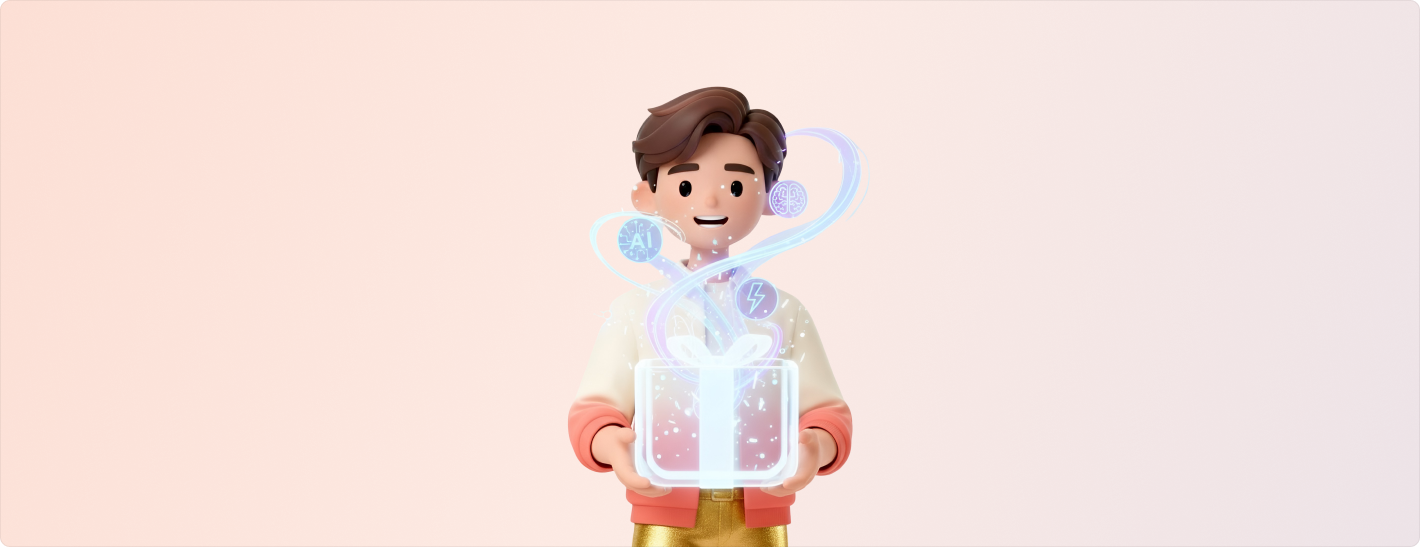
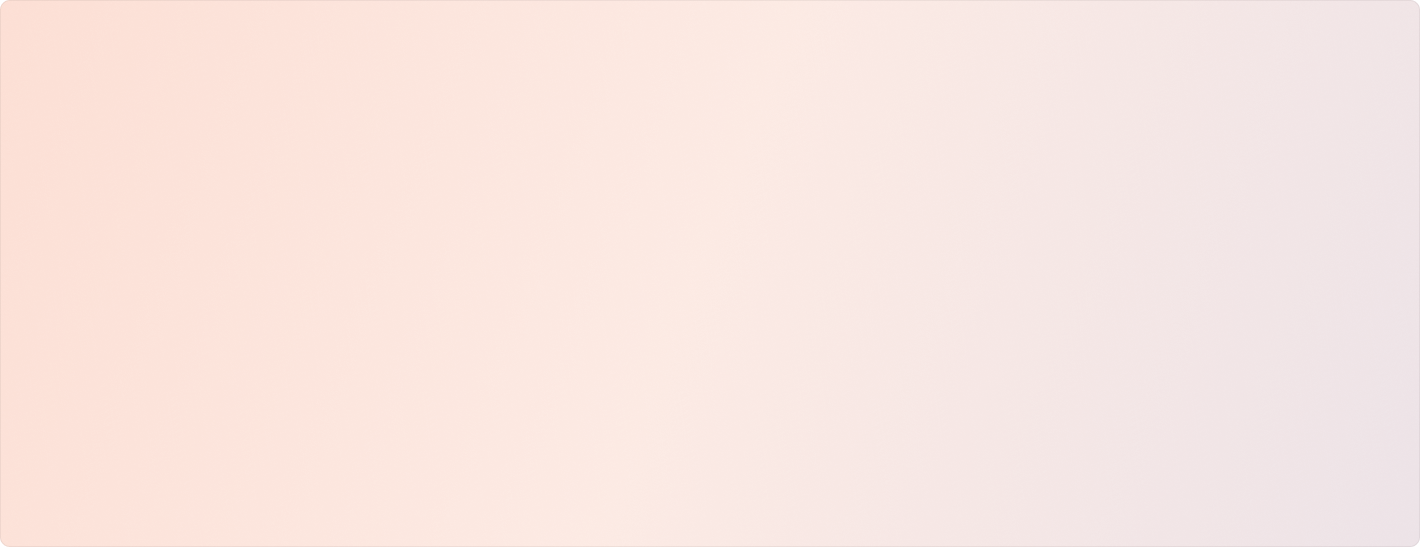
add-registration

Changed region(s): [[0.4028, 0.1554, 0.6197, 1.0]]

diff --git a/styles.css b/styles.css
@@ -1506,3 +1506,337 @@ body {
         height: 45px;
     }
 }
+
+/* Registration Banner Section */
+.registration-banner {
+    margin-bottom: 20px;
+}
+
+.banner-container {
+    max-width: 1420px;
+    height: 550px;
+    background-image: url('img/bg_2.png');
+    background-size: cover;
+    background-position: center;
+    border-radius: 10px;
+    border: 1px solid rgba(0, 0, 0, 0.05);
+    position: relative;
+    overflow: hidden;
+}
+
+.banner-content {
+    position: relative;
+    width: 100%;
+    height: 100%;
+    display: flex;
+    align-items: center;
+    justify-content: space-between;
+    padding: 0 40px;
+}
+
+.banner-text {
+    flex: 1;
+    max-width: 720px;
+    padding: 20px 0;
+}
+
+.banner-title {
+    font-family: 'Inter', sans-serif;
+    font-weight: 500;
+    font-size: 42px;
+    line-height: 1;
+    letter-spacing: -0.05em;
+    color: #2F2D2E;
+    margin: 0 0 20px 0;
+    padding: 0;
+}
+
+.banner-description {
+    font-family: 'Inter', sans-serif;
+    font-weight: 400;
+    font-size: 24px;
+    line-height: 1;
+    letter-spacing: -0.02em;
+    color: #2F2D2E;
+    margin: 0;
+    padding: 0;
+}
+
+.banner-mascot {
+    position: absolute;
+    right: 40px;
+    bottom: 0;
+    width: 505px;
+    height: 505px;
+    display: flex;
+    align-items: flex-end;
+    justify-content: center;
+}
+
+.mascot-banner-img {
+    width: 505px;
+    height: 505px;
+    object-fit: contain;
+    object-position: bottom center;
+}
+
+/* Registration Button */
+.registration-button-container {
+    width: 100%;
+    display: flex;
+    justify-content: center;
+}
+
+.btn-registration {
+    width: 100%;
+    max-width: 1420px;
+    height: 60px;
+    background-color: #FF7C5C;
+    border: none;
+    border-radius: 10px;
+    font-family: 'Inter', sans-serif;
+    font-weight: 500;
+    font-size: 20px;
+    line-height: 1;
+    letter-spacing: -0.02em;
+    color: #2F2D2E;
+    cursor: pointer;
+    transition: all 0.3s ease;
+    border-radius: 1000px;
+}
+
+.btn-registration:hover {
+    background-color: #ff6b4a;
+    transform: translateY(-2px);
+}
+
+/* Registration Banner Responsive */
+@media (max-width: 1440px) {
+    .banner-container {
+        width: 1200px;
+        height: 480px;
+    }
+
+    .banner-title {
+        font-size: 38px;
+    }
+
+    .banner-description {
+        font-size: 22px;
+    }
+
+    .banner-mascot {
+        width: 420px;
+        height: 420px;
+        right: 30px;
+    }
+
+    .mascot-banner-img {
+        width: 420px;
+        height: 420px;
+    }
+}
+
+@media (max-width: 1200px) {
+    .banner-container {
+        width: 1000px;
+        height: 420px;
+    }
+
+    .banner-title {
+        font-size: 34px;
+    }
+
+    .banner-description {
+        font-size: 20px;
+    }
+
+    .banner-mascot {
+        width: 380px;
+        height: 380px;
+        right: 20px;
+    }
+
+    .mascot-banner-img {
+        width: 380px;
+        height: 380px;
+    }
+}
+
+@media (max-width: 1000px) {
+    .banner-container {
+        width: 100%;
+        height: 400px;
+    }
+
+    .banner-content {
+        flex-direction: column;
+        align-items: flex-start;
+        justify-content: center;
+        padding: 30px;
+        gap: 20px;
+    }
+
+    .banner-text {
+        max-width: 100%;
+    }
+
+    .banner-title {
+        font-size: 32px;
+        margin-bottom: 15px;
+    }
+
+    .banner-description {
+        font-size: 18px;
+    }
+
+    .banner-mascot {
+        position: relative;
+        width: 300px;
+        height: 300px;
+        right: auto;
+        bottom: auto;
+        align-self: center;
+    }
+
+    .mascot-banner-img {
+        width: 300px;
+        height: 300px;
+    }
+}
+
+@media (max-width: 768px) {
+    .banner-container {
+        height: 350px;
+    }
+
+    .banner-content {
+        padding: 25px;
+    }
+
+    .banner-title {
+        font-size: 28px;
+        margin-bottom: 12px;
+    }
+
+    .banner-description {
+        font-size: 16px;
+    }
+
+    .banner-mascot {
+        width: 250px;
+        height: 250px;
+    }
+
+    .mascot-banner-img {
+        width: 250px;
+        height: 250px;
+    }
+
+    .btn-registration {
+        height: 55px;
+        font-size: 18px;
+    }
+}
+
+@media (max-width: 600px) {
+    .banner-container {
+        height: 320px;
+    }
+
+    .banner-content {
+        padding: 20px;
+    }
+
+    .banner-title {
+        font-size: 24px;
+        margin-bottom: 10px;
+    }
+
+    .banner-description {
+        font-size: 14px;
+    }
+
+    .banner-mascot {
+        width: 200px;
+        height: 200px;
+    }
+
+    .mascot-banner-img {
+        width: 200px;
+        height: 200px;
+    }
+
+    .btn-registration {
+        height: 50px;
+        font-size: 16px;
+    }
+}
+
+@media (max-width: 480px) {
+    .banner-container {
+        height: 280px;
+    }
+
+    .banner-content {
+        padding: 15px;
+    }
+
+    .banner-title {
+        font-size: 20px;
+        margin-bottom: 8px;
+    }
+
+    .banner-description {
+        font-size: 12px;
+    }
+
+    .banner-mascot {
+        width: 160px;
+        height: 160px;
+    }
+
+    .mascot-banner-img {
+        width: 160px;
+        height: 160px;
+    }
+
+    .btn-registration {
+        height: 45px;
+        font-size: 14px;
+    }
+}
+
+@media (max-width: 360px) {
+    .banner-container {
+        height: 250px;
+    }
+
+    .banner-content {
+        padding: 12px;
+    }
+
+    .banner-title {
+        font-size: 18px;
+        margin-bottom: 6px;
+    }
+
+    .banner-description {
+        font-size: 11px;
+    }
+
+    .banner-mascot {
+        width: 140px;
+        height: 140px;
+    }
+
+    .mascot-banner-img {
+        width: 140px;
+        height: 140px;
+    }
+
+    .btn-registration {
+        height: 40px;
+        font-size: 12px;
+    }
+}

diff --git a/index.html b/index.html
@@ -190,6 +190,26 @@
                 </div>
             </div>
         </section>
+
+        <!-- Registration Banner Section -->
+        <section class="registration-banner" style="margin-top: 150px;">
+            <div class="banner-container">
+                <div class="banner-content">
+                    <div class="banner-text">
+                        <h2 class="banner-title">Зарегистрируйся — мгновенный доступ к 50 топовым AI-сервисам для соцсетей</h2>
+                        <p class="banner-description">В подарок: подробные инструкции, примеры, готовые ссылки</p>
+                    </div>
+                    <div class="banner-mascot">
+                        <img src="img/mascot-2.png" alt="Mascot" class="mascot-banner-img">
+                    </div>
+                </div>
+            </div>
+        </section>
+
+        <!-- Registration Button -->
+        <div class="registration-button-container" style="margin-top: 20px; margin-bottom: 20px;">
+            <button class="btn-registration">Зарегистрироваться</button>
+        </div>
     </div>
 
     <!-- Floating Buttons -->
